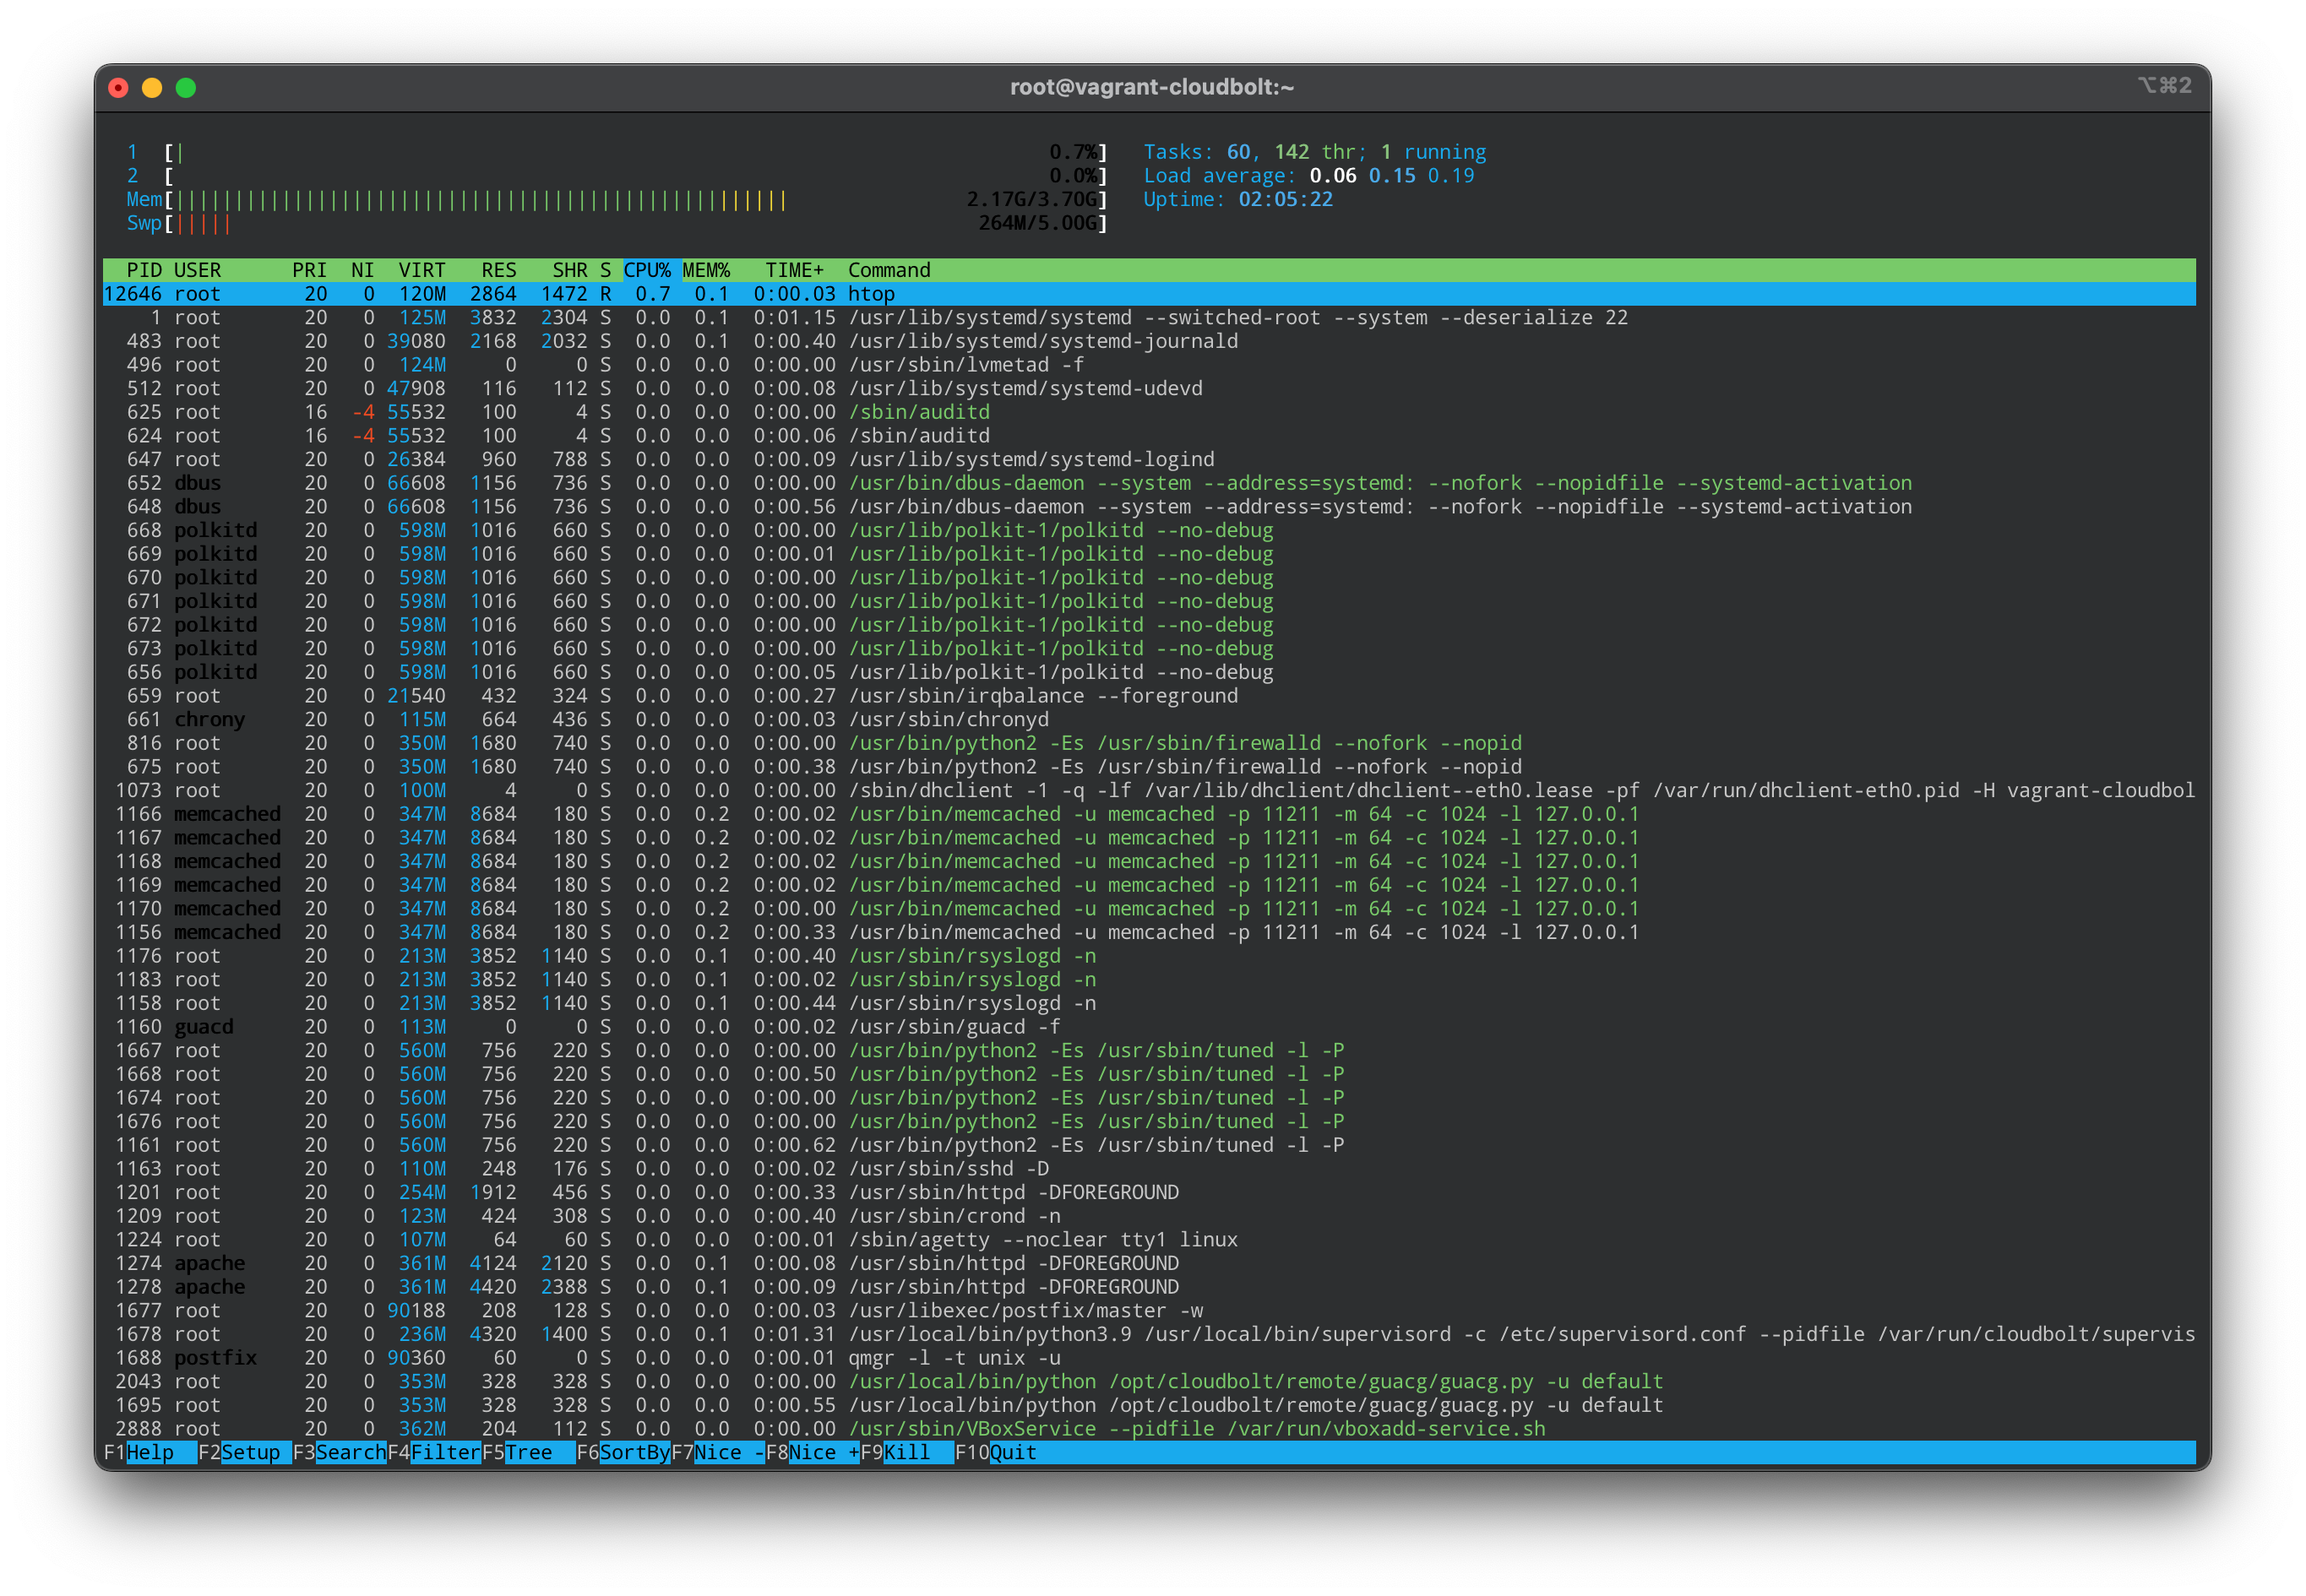
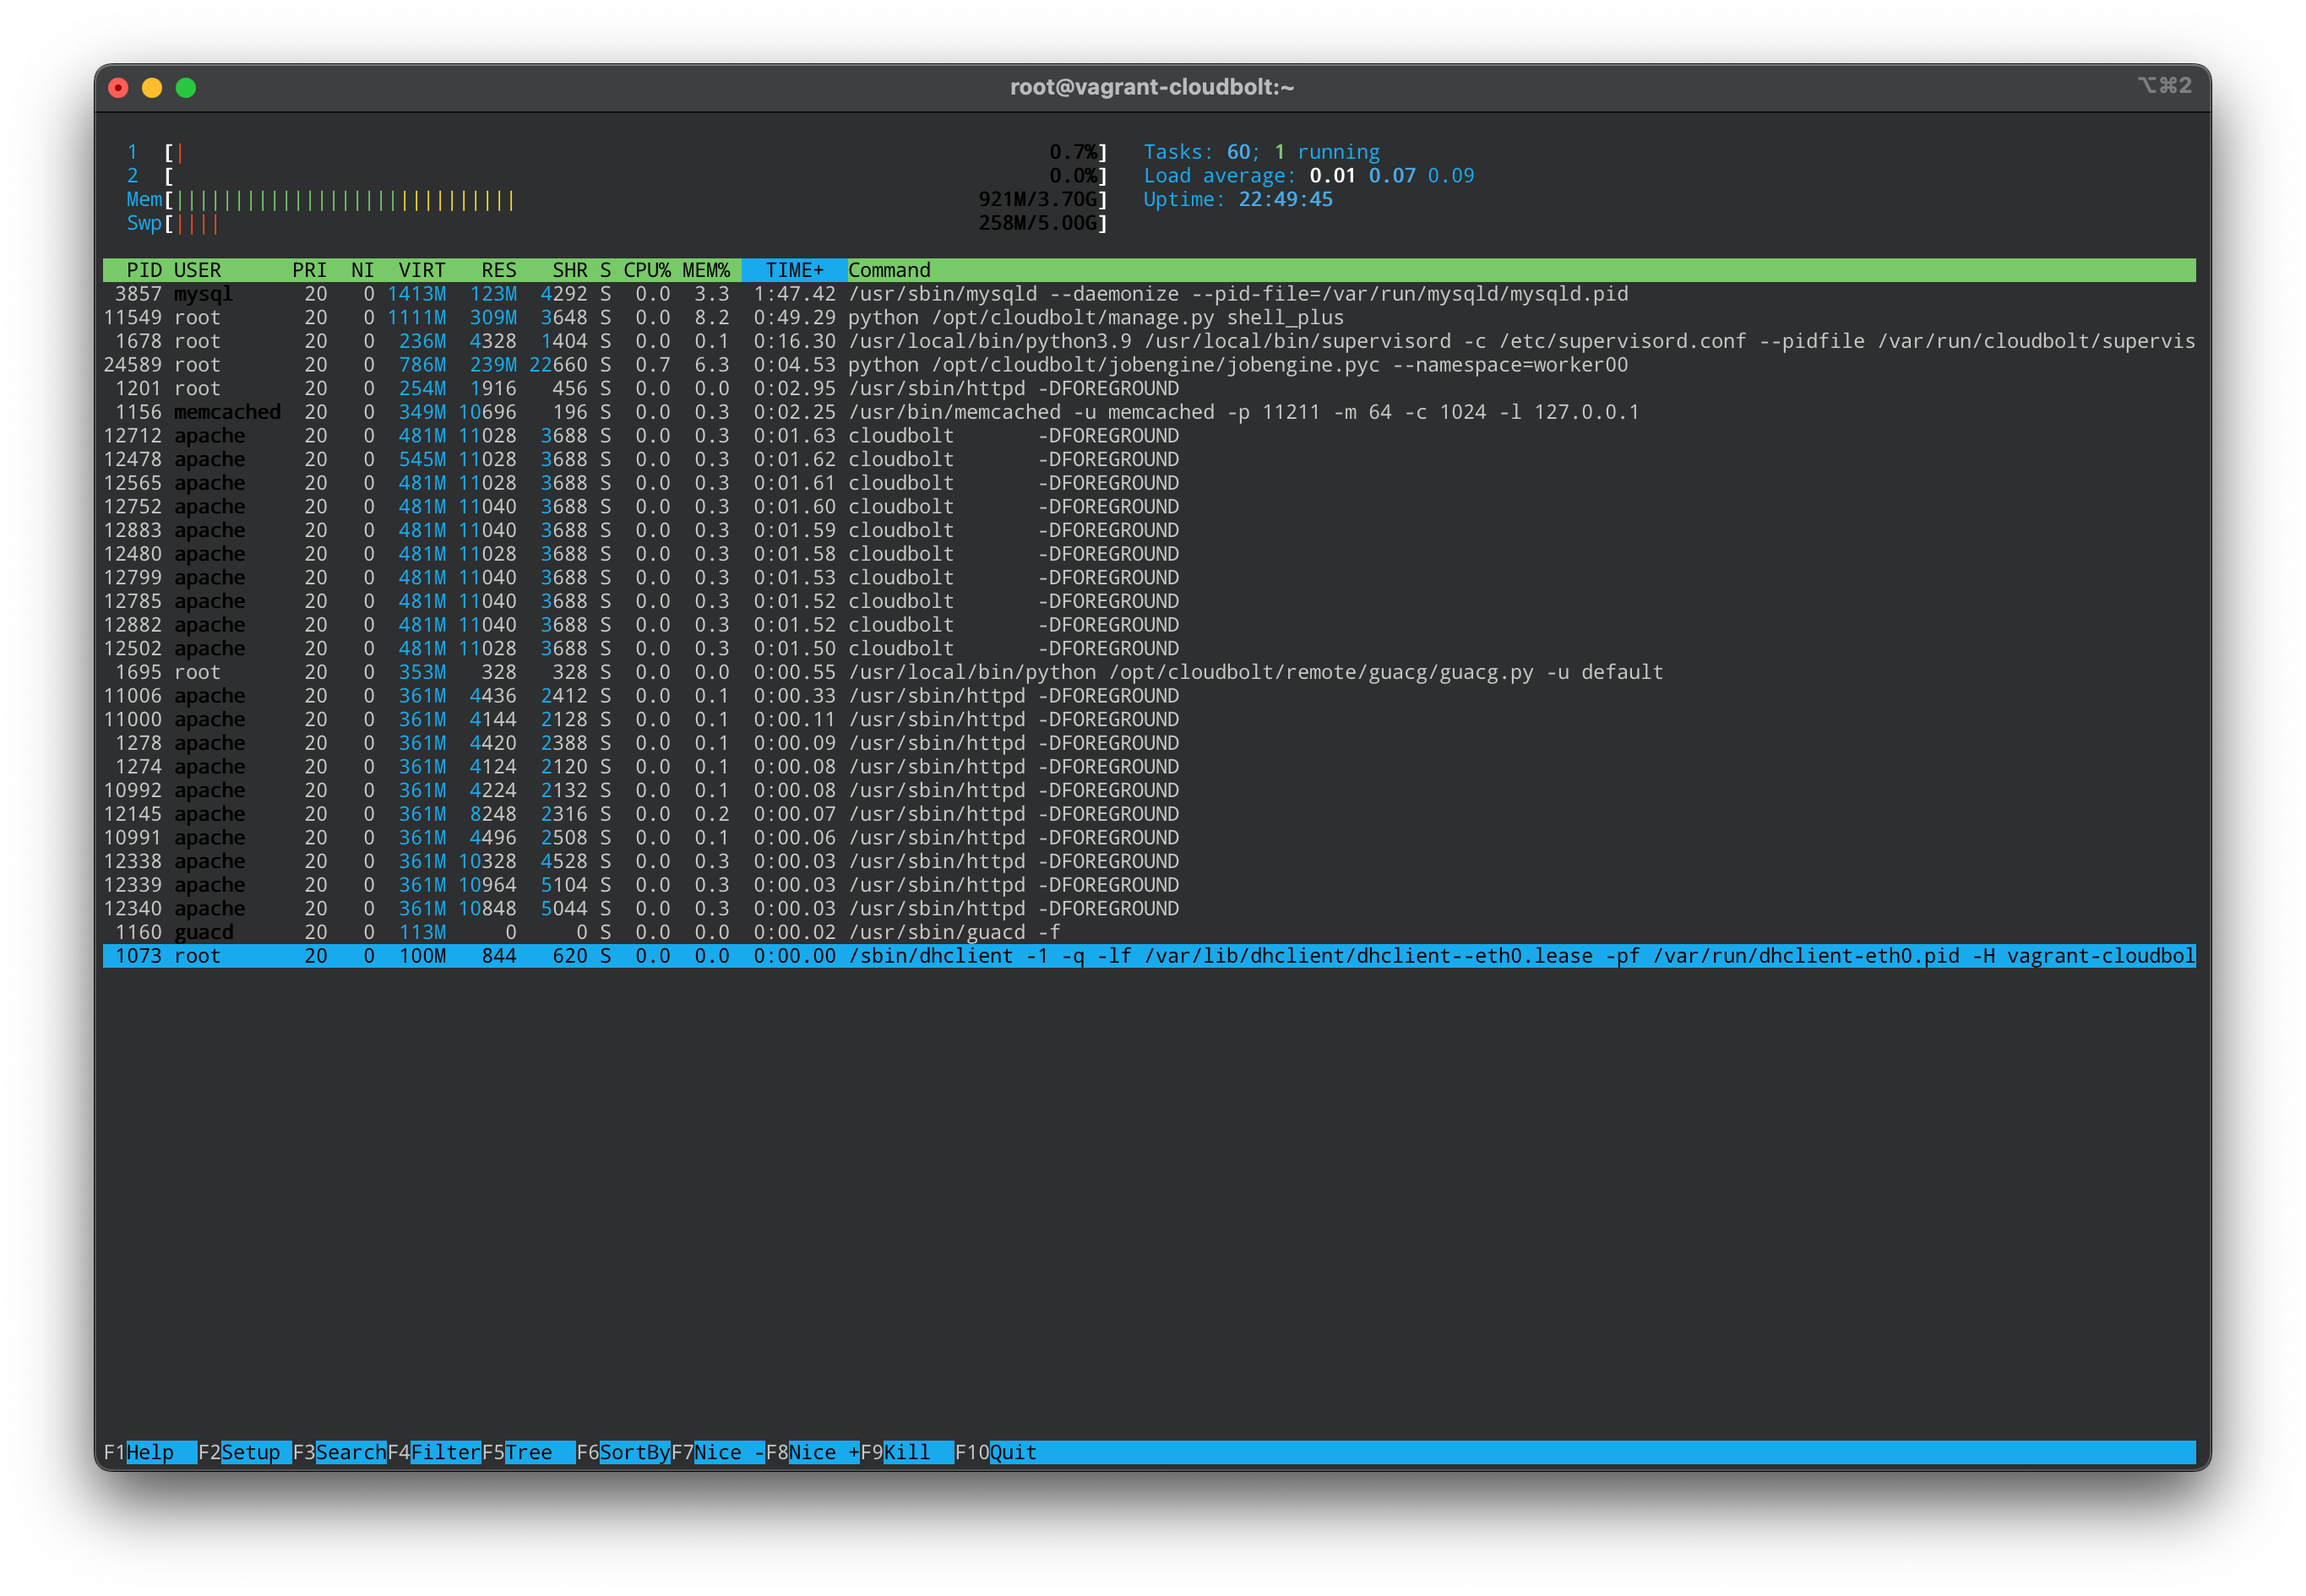
Added useful htop command and new screenshot

diff --git a/src/appliance/cli_commands.md b/src/appliance/cli_commands.md
@@ -5,6 +5,11 @@
 https://htop.dev/
 
 A colorful and customizable interactive process viewer.
+
+Use the following command to show CloudBolt processes (Press `H` after htop starts to hide user threads):
+
+`htop -sH -p $(pgrep -d',' -f /usr/local/bin/python\|httpd\|mysql\|memcached\|guacd\|cloudbolt)`
+
 ![htop screen shot](../assets/htop.png)
 
 ### `tmux`
